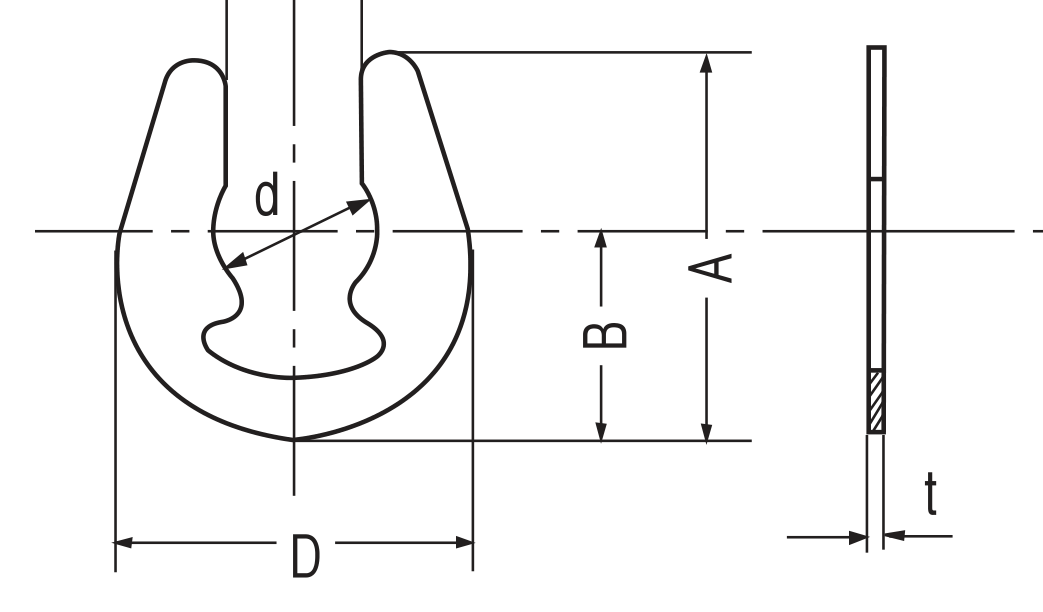
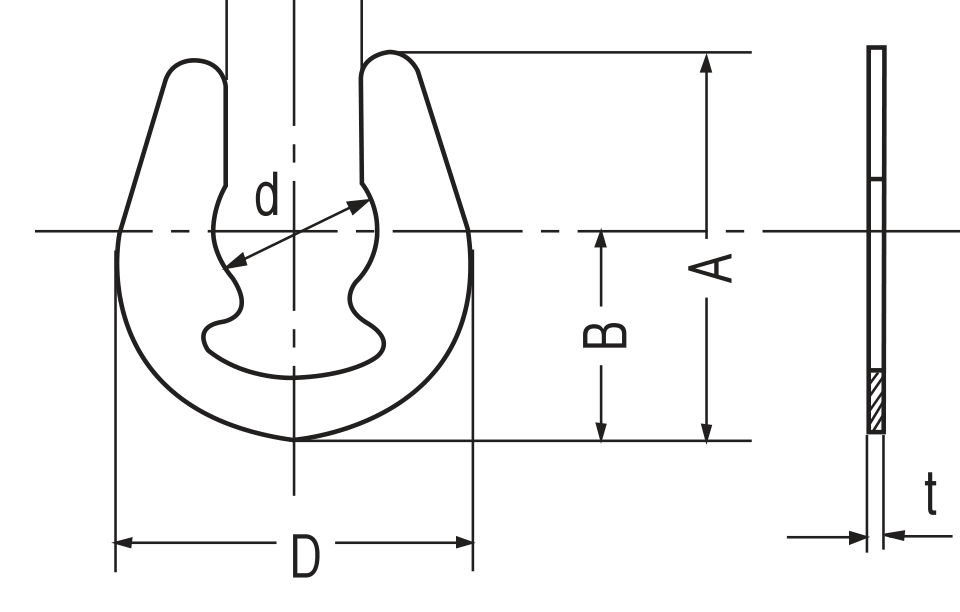
Fix diagram edge bleed and remove external catalog attribution
- pin_r_front.png: trim cyan title-rule bar bleeding into bottom edge
- g_diagram_front.png: trim adjacent shaft-diagram bleed on right edge
- u_diagram_front.png: trim trailing bare centerline past real content
- snapring_c/e.html: fix image sizing (width:100% -> fixed height/auto
  width) so front/shaft diagrams no longer distort relative to each
  other
- snapring_k.html: caption now defines the d2/R labels shown in the
  diagram
- irtw/istw/snapring_c/snapring_e/snapring_u.html: remove all mentions
  of the Ochiai catalog as a data source; every footnote now attributes
  values to the company's own official spec sheet only

diff --git a/company-homepage/snapring_e.html b/company-homepage/snapring_e.html
@@ -110,12 +110,12 @@
       <div style="background: #f4f4f2; border: 1px solid var(--border); border-radius: var(--radius-md); padding: 20px 20px 16px; margin-bottom: 24px;">
         <p style="text-align: center; font-size: 11px; color: #999; margin: 0 0 14px;">KS B 1337 · JIS B 2805 규격 도면</p>
         <div style="display: flex; gap: 16px; align-items: flex-end; flex-wrap: wrap; justify-content: center;">
-          <div style="flex: 45 45 380px; text-align: center;">
-            <img src="assets/e_diagram_front.png" alt="E형 정면도·측면도 — D 외경, H 발톱 폭, d 홈지름, t 두께" style="display: block; max-width: 100%; width: 100%; image-rendering: -webkit-optimize-contrast;" />
+          <div style="flex: 0 1 auto; text-align: center; max-width: 100%;">
+            <img src="assets/e_diagram_front.png" alt="E형 정면도·측면도 — D 외경, H 발톱 폭, d 홈지름, t 두께" style="display: block; margin: 0 auto; height: 260px; width: auto; max-width: 100%; object-fit: contain; image-rendering: -webkit-optimize-contrast;" />
             <p style="font-size: 11.5px; color: var(--text-sub); margin: 6px 0 0;">↑ 3개의 발톱(claw)이 축 홈을 붙잡는 구조<br /><span style="color: var(--text-faint);">D=외경 · H=발톱 폭 · d=홈지름 · t=두께</span></p>
           </div>
-          <div style="flex: 40 40 340px; text-align: center;">
-            <img src="assets/e_diagram_shaft.png" alt="적용하는 축 단면도 — d1 축지름, d2 홈지름, m·n 홈폭 여유" style="display: block; max-width: 100%; width: 100%; image-rendering: -webkit-optimize-contrast;" />
+          <div style="flex: 0 1 auto; text-align: center; max-width: 100%;">
+            <img src="assets/e_diagram_shaft.png" alt="적용하는 축 단면도 — d1 축지름, d2 홈지름, m·n 홈폭 여유" style="display: block; margin: 0 auto; height: 260px; width: auto; max-width: 100%; object-fit: contain; image-rendering: -webkit-optimize-contrast;" />
             <p style="font-size: 11.5px; color: var(--text-sub); margin: 6px 0 0;">↑ 적용하는 축<br /><span style="color: var(--text-faint);">d1=축지름 · d2=홈지름 · m=홈폭 · n=여유</span></p>
           </div>
         </div>
@@ -159,7 +159,7 @@
           </tbody>
         </table>
       </div>
-      <p style="font-size: 12.5px; color: var(--text-faint); margin-top: 16px;">※ 위 도면과 표는 R형·S형과 같은 방식으로 <strong style="color: var(--text-sub);">당사 정식 규격표 원본 PDF를 600dpi로 직접 렌더링</strong>해서 다시 대조했습니다. 이전 버전은 오치아이(Ochiai) 문서와 사진을 교차 대조해 작성했었는데, 원본과 다시 대조해보니 <strong style="color: var(--text-sub);">축 지름(d) 기준치수·허용차는 기존 값과 대부분 일치</strong>했지만, <strong style="color: var(--text-sub);">두께(t)·허용차 구간 경계 중 일부(ETW-0.7·0.8, ETW-1·1.2, ETW-6·7·8·9·10)가 실제와 달라</strong> 원본 표 그대로 바로잡았습니다. 정밀 가공·발주 전에는 반드시 정식 KS B 1337 규격서 원본 또는 실제 구매처 카탈로그로 최종 확인하시기 바랍니다.</p>
+      <p style="font-size: 12.5px; color: var(--text-faint); margin-top: 16px;">※ 위 도면과 표는 <strong style="color: var(--text-sub);">당사 정식 규격표 원본 PDF를 600dpi로 직접 렌더링</strong>해서 한 줄씩 대조해 작성했습니다. 정밀 가공·발주 전에는 반드시 당사 정식 규격표 원본으로 최종 확인하시기 바랍니다.</p>
     </div>
   </section>
 

diff --git a/company-homepage/snapring_c.html b/company-homepage/snapring_c.html
@@ -103,19 +103,19 @@
         <p>
           E형과 마찬가지로 축의 좁은 홈에 <strong style="color: var(--accent);">라디얼 방향</strong>으로 끼우는 소형 멈춤링이지만,
           초승달(crescent) 모양의 넓은 몸체 덕분에 E형보다 <strong style="color: var(--accent);">접촉 면적이 넓어 더 큰 축 방향 하중</strong>을
-          견딜 수 있습니다. 규격 기호는 <strong style="color: var(--accent);">5103</strong>으로 표기하며, 오치아이(Ochiai) 카탈로그 기준입니다.
+          견딜 수 있습니다. 규격 기호는 <strong style="color: var(--accent);">5103</strong>으로 표기하며, 당사 정식 규격표 기준입니다.
         </p>
       </div>
 
       <div style="background: #f4f4f2; border: 1px solid var(--border); border-radius: var(--radius-md); padding: 20px 20px 16px; margin-bottom: 24px;">
         <p style="text-align: center; font-size: 11px; color: #999; margin: 0 0 14px;">당사 정식 규격 도면</p>
         <div style="display: flex; gap: 16px; align-items: flex-end; flex-wrap: wrap; justify-content: center;">
-          <div style="flex: 45 45 340px; text-align: center;">
-            <img src="assets/c_diagram_front.png" alt="C형 정면도 — D 외경, d 홈지름, h 폭, t 두께" style="display: block; max-width: 100%; width: 100%; image-rendering: -webkit-optimize-contrast;" />
+          <div style="flex: 0 1 auto; text-align: center; max-width: 100%;">
+            <img src="assets/c_diagram_front.png" alt="C형 정면도 — D 외경, d 홈지름, h 폭, t 두께" style="display: block; margin: 0 auto; height: 260px; width: auto; max-width: 100%; object-fit: contain; image-rendering: -webkit-optimize-contrast;" />
             <p style="font-size: 11.5px; color: var(--text-sub); margin: 6px 0 0;">↑ 초승달(crescent) 모양의 넓은 몸체<br /><span style="color: var(--text-faint);">D=외경 · d=홈지름 · h=폭 · t=두께</span></p>
           </div>
-          <div style="flex: 45 45 340px; text-align: center;">
-            <img src="assets/c_diagram_shaft.png" alt="적용하는 축 단면도 — d1 축지름, d2 홈지름, m·n 홈폭 여유" style="display: block; max-width: 100%; width: 100%; image-rendering: -webkit-optimize-contrast;" />
+          <div style="flex: 0 1 auto; text-align: center; max-width: 100%;">
+            <img src="assets/c_diagram_shaft.png" alt="적용하는 축 단면도 — d1 축지름, d2 홈지름, m·n 홈폭 여유" style="display: block; margin: 0 auto; height: 260px; width: auto; max-width: 100%; object-fit: contain; image-rendering: -webkit-optimize-contrast;" />
             <p style="font-size: 11.5px; color: var(--text-sub); margin: 6px 0 0;">↑ 적용하는 축<br /><span style="color: var(--text-faint);">d1=축지름 · d2=홈지름 · m=홈폭 · n=여유</span></p>
           </div>
         </div>

diff --git a/company-homepage/istw.html b/company-homepage/istw.html
@@ -198,7 +198,7 @@
         <p style="font-size: 12.5px; color: var(--text-faint); margin: 0;">재질은 스프링강이 기본이며, 스프링용 스텐레스강은 주문 생산으로 대응합니다. 경도는 HRC 44~52, 표면처리는 인산피막처리(A.C.P)가 표준입니다.</p>
       </div>
 
-      <p style="font-size: 12.5px; color: var(--text-faint); margin-top: 16px;">※ 위 도면과 표의 <strong style="color: var(--text-sub);">축 지름 d1 · 자유내경 d3 · d3공차 · 두께 t · t공차</strong> 값은 R형·S형·IRTW 페이지와 똑같은 방식으로 <strong style="color: var(--text-sub);">당사 정식 규격표 원본 PDF를 600dpi로 직접 렌더링</strong>해서 한 줄씩 대조해 다시 작성했습니다. 기존에는 제조사(오치아이/Ochiai)가 공개한 ISTW 규격표를 기준으로 43개 호칭만 실려 있었는데, 원본 PDF와 대조해보니 <strong style="color: var(--text-sub);">누락됐던 Size No.29·56·72·78·82·85·88·90·95·100 열 개 행이 빠져 있어</strong> 추가했습니다. <strong style="color: var(--text-sub);">홈지름(d2)·d2 허용공차·클리어런스 외경(d5)</strong> 세 열은 이 규격표에는 없는 항목이라 기존 오치아이 기준 값을 그대로 유지했고, 새로 추가한 열 개 행은 그 값이 없어 "—"로 남겼습니다. Size No. 앞의 <strong style="color: var(--text-sub);">●(29, 56, 72, 78, 80, 82, 85, 88, 90, 95, 100)</strong>은 원본 카탈로그에 표시된 대로, 이용 전 문의가 필요한 사이즈임을 나타냅니다. 정밀 가공·발주 전에는 반드시 정식 KS B 1336 규격서 원본으로 최종 확인하시기 바랍니다.</p>
+      <p style="font-size: 12.5px; color: var(--text-faint); margin-top: 16px;">※ 위 도면과 표의 <strong style="color: var(--text-sub);">축 지름 d1 · 자유내경 d3 · d3공차 · 두께 t · t공차</strong> 값은 <strong style="color: var(--text-sub);">당사 정식 규격표 원본 PDF를 600dpi로 직접 렌더링</strong>해서 한 줄씩 대조해 작성했으며, Size No.29·56·72·78·82·85·88·90·95·100을 포함한 전체 호칭을 실었습니다. <strong style="color: var(--text-sub);">홈지름(d2)·d2 허용공차·클리어런스 외경(d5)</strong> 값이 없는 사이즈는 "—"로 표기했습니다. Size No. 앞의 <strong style="color: var(--text-sub);">●(29, 56, 72, 78, 80, 82, 85, 88, 90, 95, 100)</strong>은 이용 전 문의가 필요한 사이즈임을 나타냅니다. 정밀 가공·발주 전에는 반드시 당사 정식 규격표 원본으로 최종 확인하시기 바랍니다.</p>
     </div>
   </section>
 

diff --git a/company-homepage/irtw.html b/company-homepage/irtw.html
@@ -197,7 +197,7 @@
         <p style="font-size: 12.5px; color: var(--text-faint); margin: 0;">재질은 스프링강이 기본이며, 스프링용 스텐레스강은 주문 생산으로 대응합니다. 경도는 HRC 44~52, 표면처리는 인산피막처리(A.C.P)가 표준이며 요청 시 Zn 도금도 가능합니다.</p>
       </div>
 
-      <p style="font-size: 12.5px; color: var(--text-faint); margin-top: 16px;">※ 위 도면과 표의 <strong style="color: var(--text-sub);">구멍 지름 d1 · 자유외경 d3 · d3공차 · 두께 t · t공차</strong> 값은 R형·S형 페이지와 똑같은 방식으로 <strong style="color: var(--text-sub);">당사 정식 규격표 원본 PDF를 600dpi로 직접 렌더링</strong>해서 한 줄씩 대조해 다시 작성했습니다. 기존에는 제조사(오치아이/Ochiai)가 공개한 IRTW 규격표를 기준으로 45개 호칭만 실려 있었는데, 원본 PDF와 대조해보니 <strong style="color: var(--text-sub);">누락됐던 Size No.63·70·82·88·92·95·98 일곱 행이 빠져 있어</strong> 추가했습니다. <strong style="color: var(--text-sub);">홈지름(d2)·d2 허용공차·클리어런스 내경(d5)</strong> 세 열은 이 규격표에는 없는 항목이라 기존 오치아이 기준 값을 그대로 유지했고, 새로 추가한 일곱 행은 그 값이 없어 "—"로 남겼습니다. Size No. 앞의 <strong style="color: var(--text-sub);">●(82, 88, 92, 95, 98)</strong>은 원본 카탈로그에 표시된 대로, 이용 전 문의가 필요한 사이즈임을 나타냅니다. 정밀 가공·발주 전에는 반드시 정식 KS B 1336 규격서 원본으로 최종 확인하시기 바랍니다.</p>
+      <p style="font-size: 12.5px; color: var(--text-faint); margin-top: 16px;">※ 위 도면과 표의 <strong style="color: var(--text-sub);">구멍 지름 d1 · 자유외경 d3 · d3공차 · 두께 t · t공차</strong> 값은 <strong style="color: var(--text-sub);">당사 정식 규격표 원본 PDF를 600dpi로 직접 렌더링</strong>해서 한 줄씩 대조해 작성했으며, Size No.63·70·82·88·92·95·98을 포함한 전체 호칭을 실었습니다. <strong style="color: var(--text-sub);">홈지름(d2)·d2 허용공차·클리어런스 내경(d5)</strong> 값이 없는 사이즈는 "—"로 표기했습니다. Size No. 앞의 <strong style="color: var(--text-sub);">●(82, 88, 92, 95, 98)</strong>은 이용 전 문의가 필요한 사이즈임을 나타냅니다. 정밀 가공·발주 전에는 반드시 당사 정식 규격표 원본으로 최종 확인하시기 바랍니다.</p>
     </div>
   </section>
 

diff --git a/company-homepage/snapring_k.html b/company-homepage/snapring_k.html
@@ -111,7 +111,7 @@
         <p style="text-align: center; font-size: 11px; color: #999; margin: 0 0 16px;">당사 정식 규격 도면</p>
         <div style="text-align: center;">
           <img src="assets/k_diagram.png" alt="K형 멈춤링 도면 — d 내경, t 판두께, 적용하는 축, T5304-15의 상세 치수" style="display: block; margin: 0 auto; max-width: 100%; height: auto; image-rendering: -webkit-optimize-contrast;" />
-          <p style="font-size: 11.5px; color: var(--text-sub); margin: 8px 0 0;">↑ 다중 스프링 발톱 구조 · 적용하는 축(홈 가공 불필요) · T5304-15의 발톱 상세 치수(Fig.1)와 모따기(R) 상세<br /><span style="color: var(--text-faint);">d=내경 · t=판두께 · d1=적용 축경 · m=삽입 깊이</span></p>
+          <p style="font-size: 11.5px; color: var(--text-sub); margin: 8px 0 0;">↑ 다중 스프링 발톱 구조 · 적용하는 축(홈 가공 불필요) · T5304-15의 발톱 상세 치수(Fig.1)와 모따기(R) 상세<br /><span style="color: var(--text-faint);">d=내경 · t=판두께 · d1=적용 축경 · m=삽입 깊이 · d2=Fig.1 상세부 축경 · R=모따기 반경</span></p>
         </div>
         <p style="text-align: center; font-size: 11.5px; color: #777; margin: 14px 0 0;">작은 호칭은 하나의 호칭이 일정 범위의 축경(예: 4~4.5mm)에 공통 적용됩니다.</p>
       </div>

diff --git a/company-homepage/snapring_u.html b/company-homepage/snapring_u.html
@@ -103,7 +103,7 @@
         <p>
           E형·C형과 같은 계열의 라디얼 삽입형 멈춤링으로, U자형 후크 구조로 축의 좁은 홈을 붙잡습니다.
           <strong style="color: var(--accent);">드라이버 등 일반 공구로도 탈거가 가능</strong>하지만, 한 번 탈거한 제품은 재사용할 수 없습니다.
-          규격 기호는 <strong style="color: var(--accent);">UTW</strong>로 표기하며, 오치아이(Ochiai) 카탈로그 기준입니다.
+          규격 기호는 <strong style="color: var(--accent);">UTW</strong>로 표기하며, 당사 정식 규격표 기준입니다.
         </p>
       </div>
 
